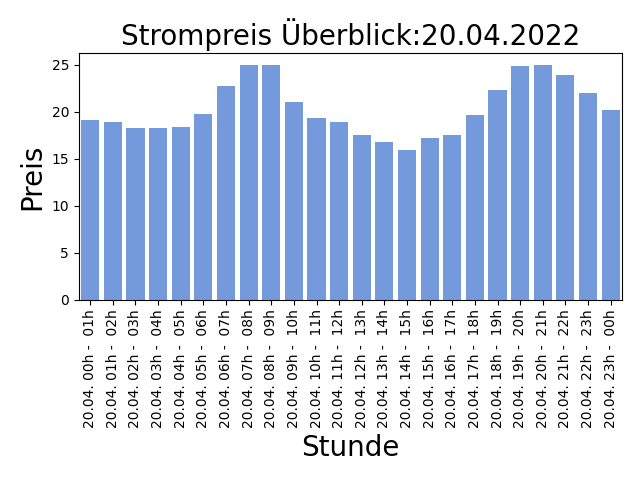
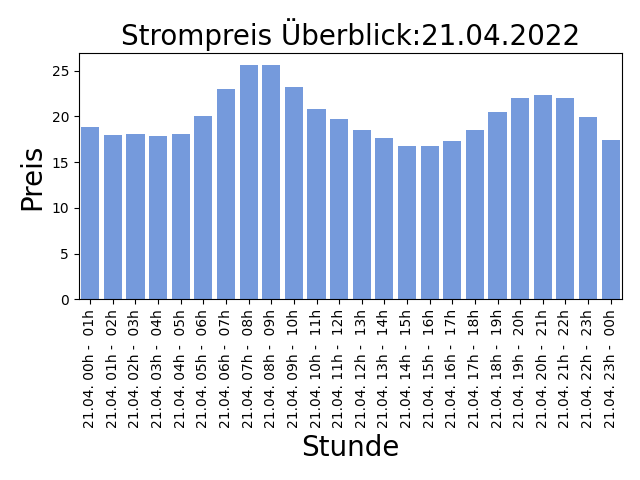
AUTOMATIC UPDATE PRICE LIST: 2022-04-20-14:30:08

diff --git a/README.md b/README.md
@@ -1,5 +1,5 @@
 
-## Strompreise für den 20.04.2022
+## Strompreise für den 21.04.2022
 
 Niedrige Preise deuten auf viel Sonnen und Windenergieerzeugung hin, ein hoher Anteil an erneuerbaren Energien bedeuted weniger CO2 Verbrauch!
 
@@ -7,31 +7,31 @@ Niedrige Preise deuten auf viel Sonnen und Windenergieerzeugung hin, ein hoher A
 
 | Stunde | Preis in Cent/kWh |
 |---|---|
-| 20.04. 00h -  01h | 19.1 | 
-| 20.04. 01h -  02h | 18.955000000000002 | 
-| 20.04. 02h -  03h | 18.31 | 
-| 20.04. 03h -  04h | 18.328 | 
-| 20.04. 04h -  05h | 18.338 | 
-| 20.04. 05h -  06h | 19.796 | 
-| 20.04. 06h -  07h | 22.724 | 
-| 20.04. 07h -  08h | 24.991999999999997 | 
-| 20.04. 08h -  09h | 24.990000000000002 | 
-| 20.04. 09h -  10h | 20.996000000000002 | 
-| 20.04. 10h -  11h | 19.35 | 
-| 20.04. 11h -  12h | 18.891 | 
-| 20.04. 12h -  13h | 17.587 | 
-| 20.04. 13h -  14h | 16.837 | 
-| **20.04. 14h -  15h** | **15.89** | 
-| 20.04. 15h -  16h | 17.195 | 
-| 20.04. 16h -  17h | 17.585 | 
-| 20.04. 17h -  18h | 19.615000000000002 | 
-| 20.04. 18h -  19h | 22.294999999999998 | 
-| 20.04. 19h -  20h | 24.9 | 
-| 20.04. 20h -  21h | 25.0 | 
-| 20.04. 21h -  22h | 23.918 | 
-| 20.04. 22h -  23h | 22.009999999999998 | 
-| 20.04. 23h -  00h | 20.197 | 
+| 21.04. 00h -  01h | 18.855 | 
+| 21.04. 01h -  02h | 17.991999999999997 | 
+| 21.04. 02h -  03h | 18.108 | 
+| 21.04. 03h -  04h | 17.892 | 
+| 21.04. 04h -  05h | 18.05 | 
+| 21.04. 05h -  06h | 19.991999999999997 | 
+| 21.04. 06h -  07h | 22.976 | 
+| 21.04. 07h -  08h | 25.601999999999997 | 
+| 21.04. 08h -  09h | 25.625 | 
+| 21.04. 09h -  10h | 23.226 | 
+| 21.04. 10h -  11h | 20.793 | 
+| 21.04. 11h -  12h | 19.701 | 
+| 21.04. 12h -  13h | 18.506 | 
+| 21.04. 13h -  14h | 17.625 | 
+| **21.04. 14h -  15h** | **16.793** | 
+| 21.04. 15h -  16h | 16.805 | 
+| 21.04. 16h -  17h | 17.34 | 
+| 21.04. 17h -  18h | 18.534 | 
+| 21.04. 18h -  19h | 20.496000000000002 | 
+| 21.04. 19h -  20h | 22.062 | 
+| 21.04. 20h -  21h | 22.361 | 
+| 21.04. 21h -  22h | 22.044 | 
+| 21.04. 22h -  23h | 19.971 | 
+| 21.04. 23h -  00h | 17.462 | 
 
 Preise der EPEX Spot ® Strombörse (neue Preise werden täglich um 14:00 veröffentlicht für den kompletten nächsten Tag).
 
-letzte Aktualisierung:19.04.2022 14:30
+letzte Aktualisierung:20.04.2022 14:30
